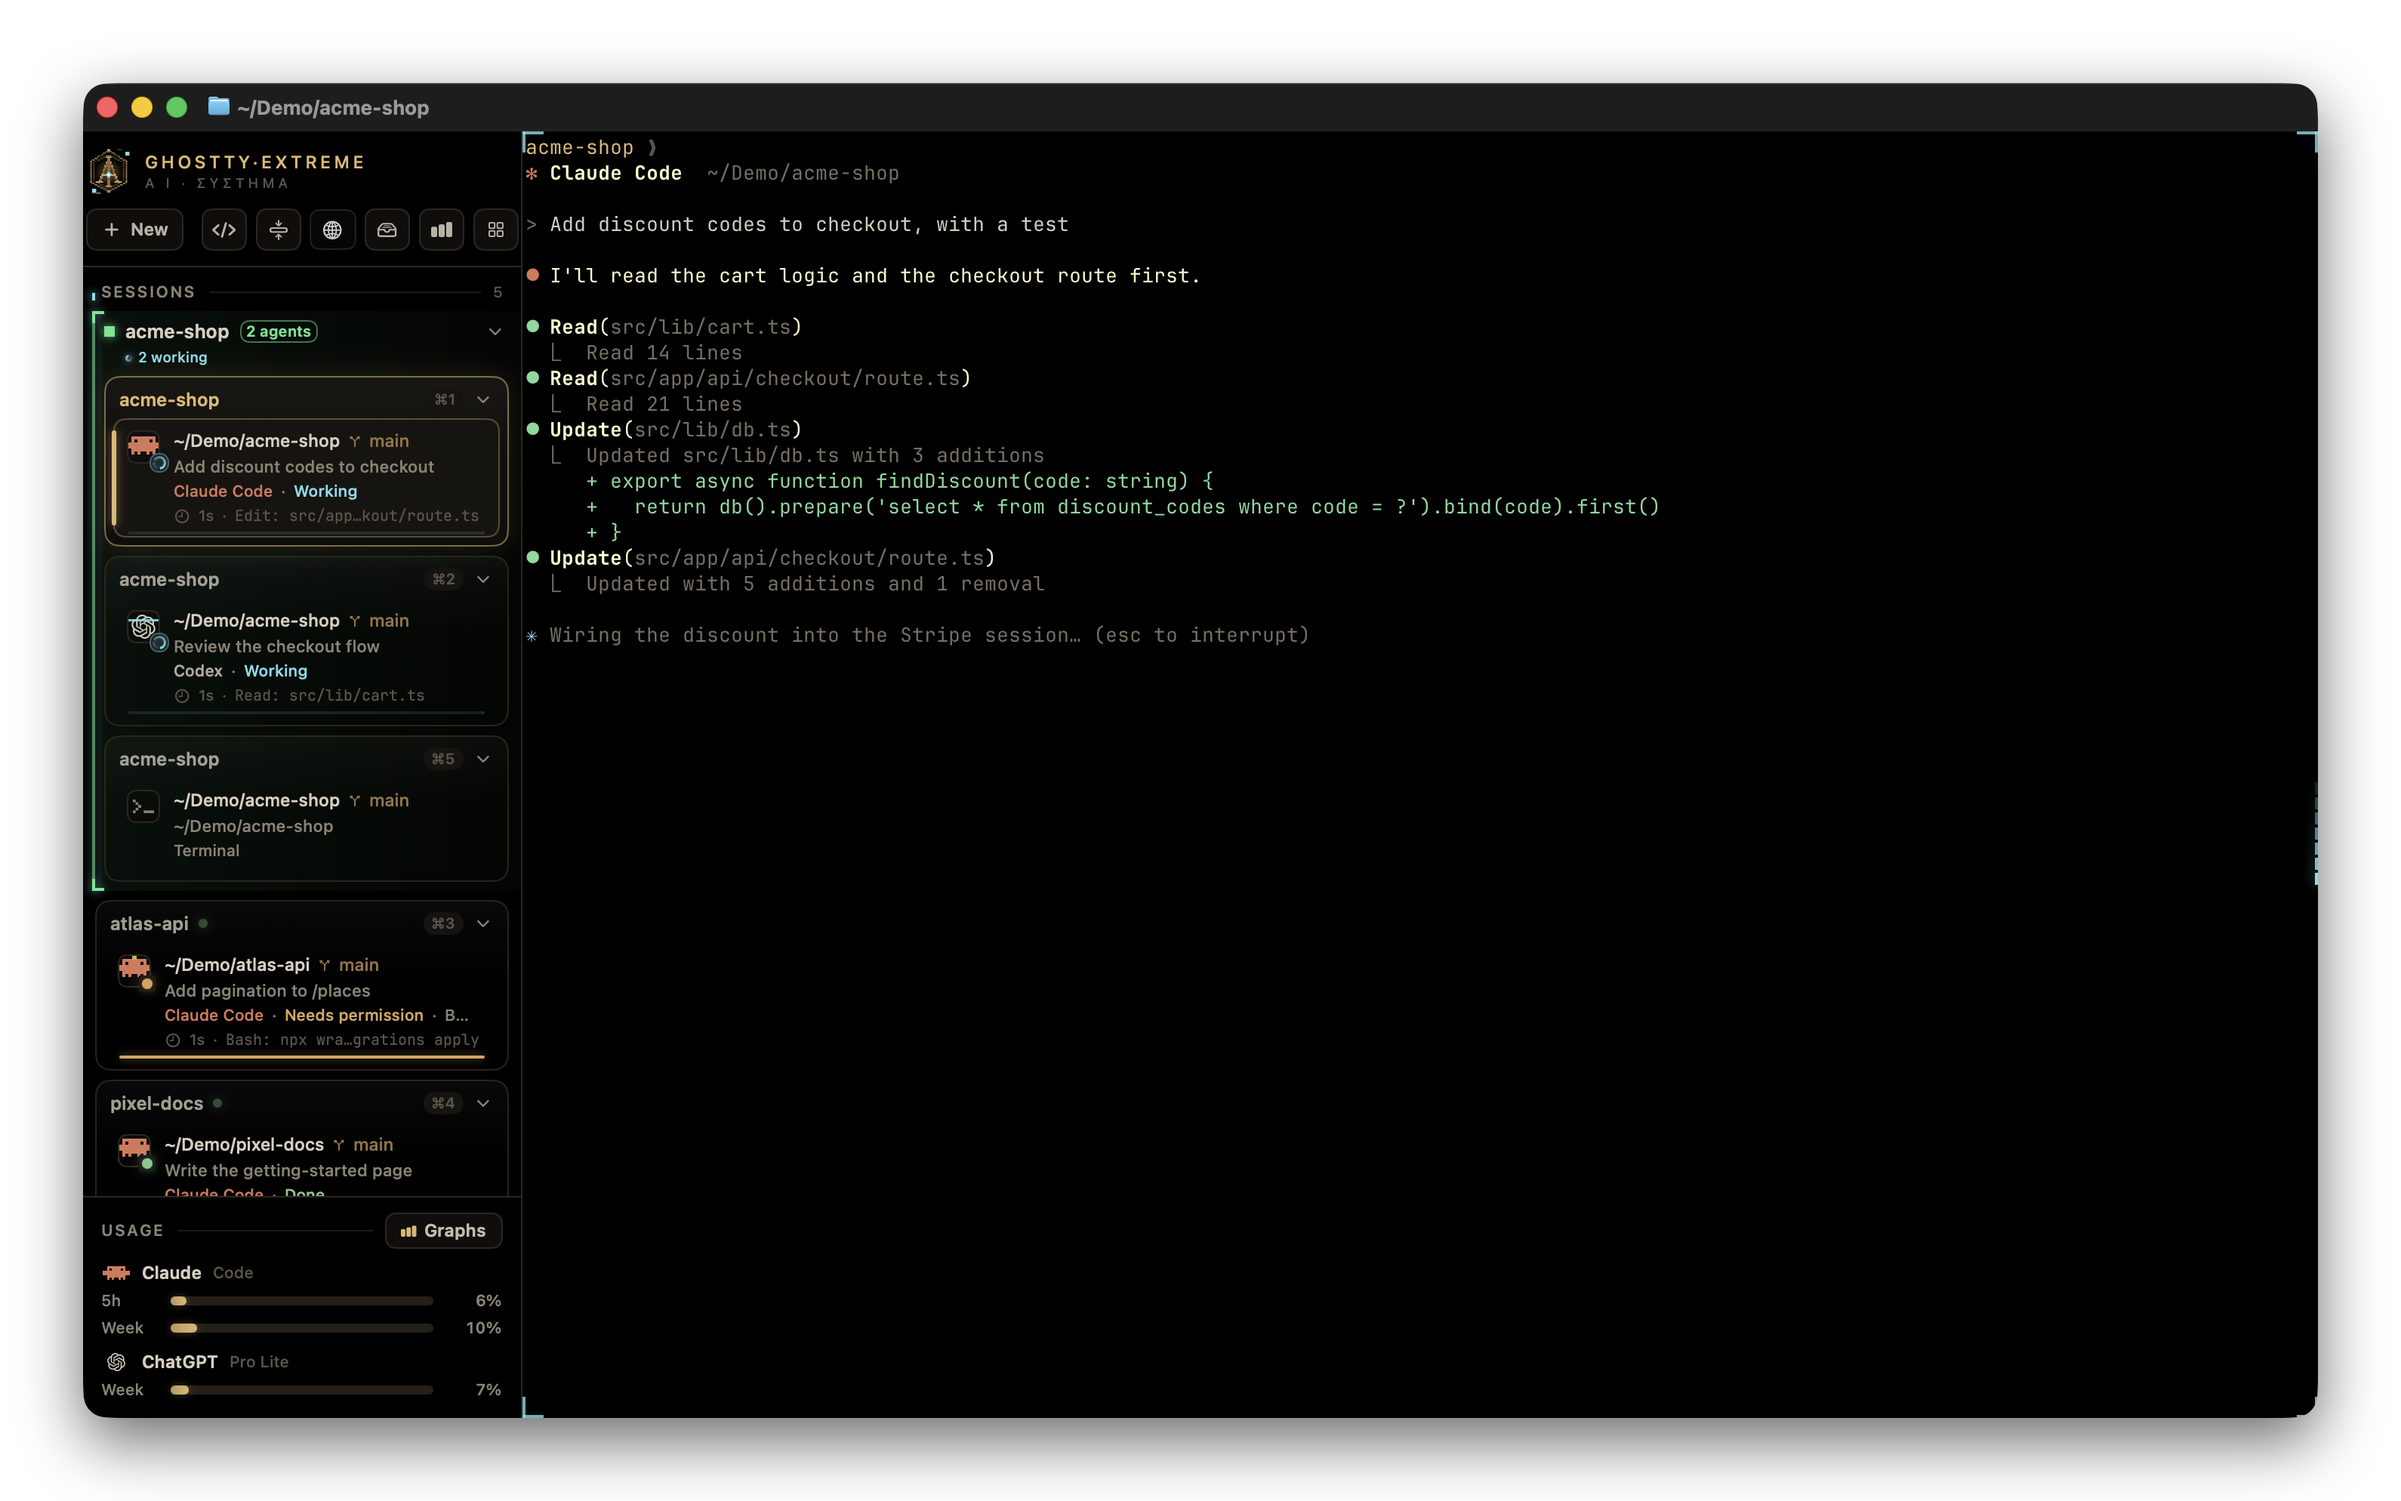
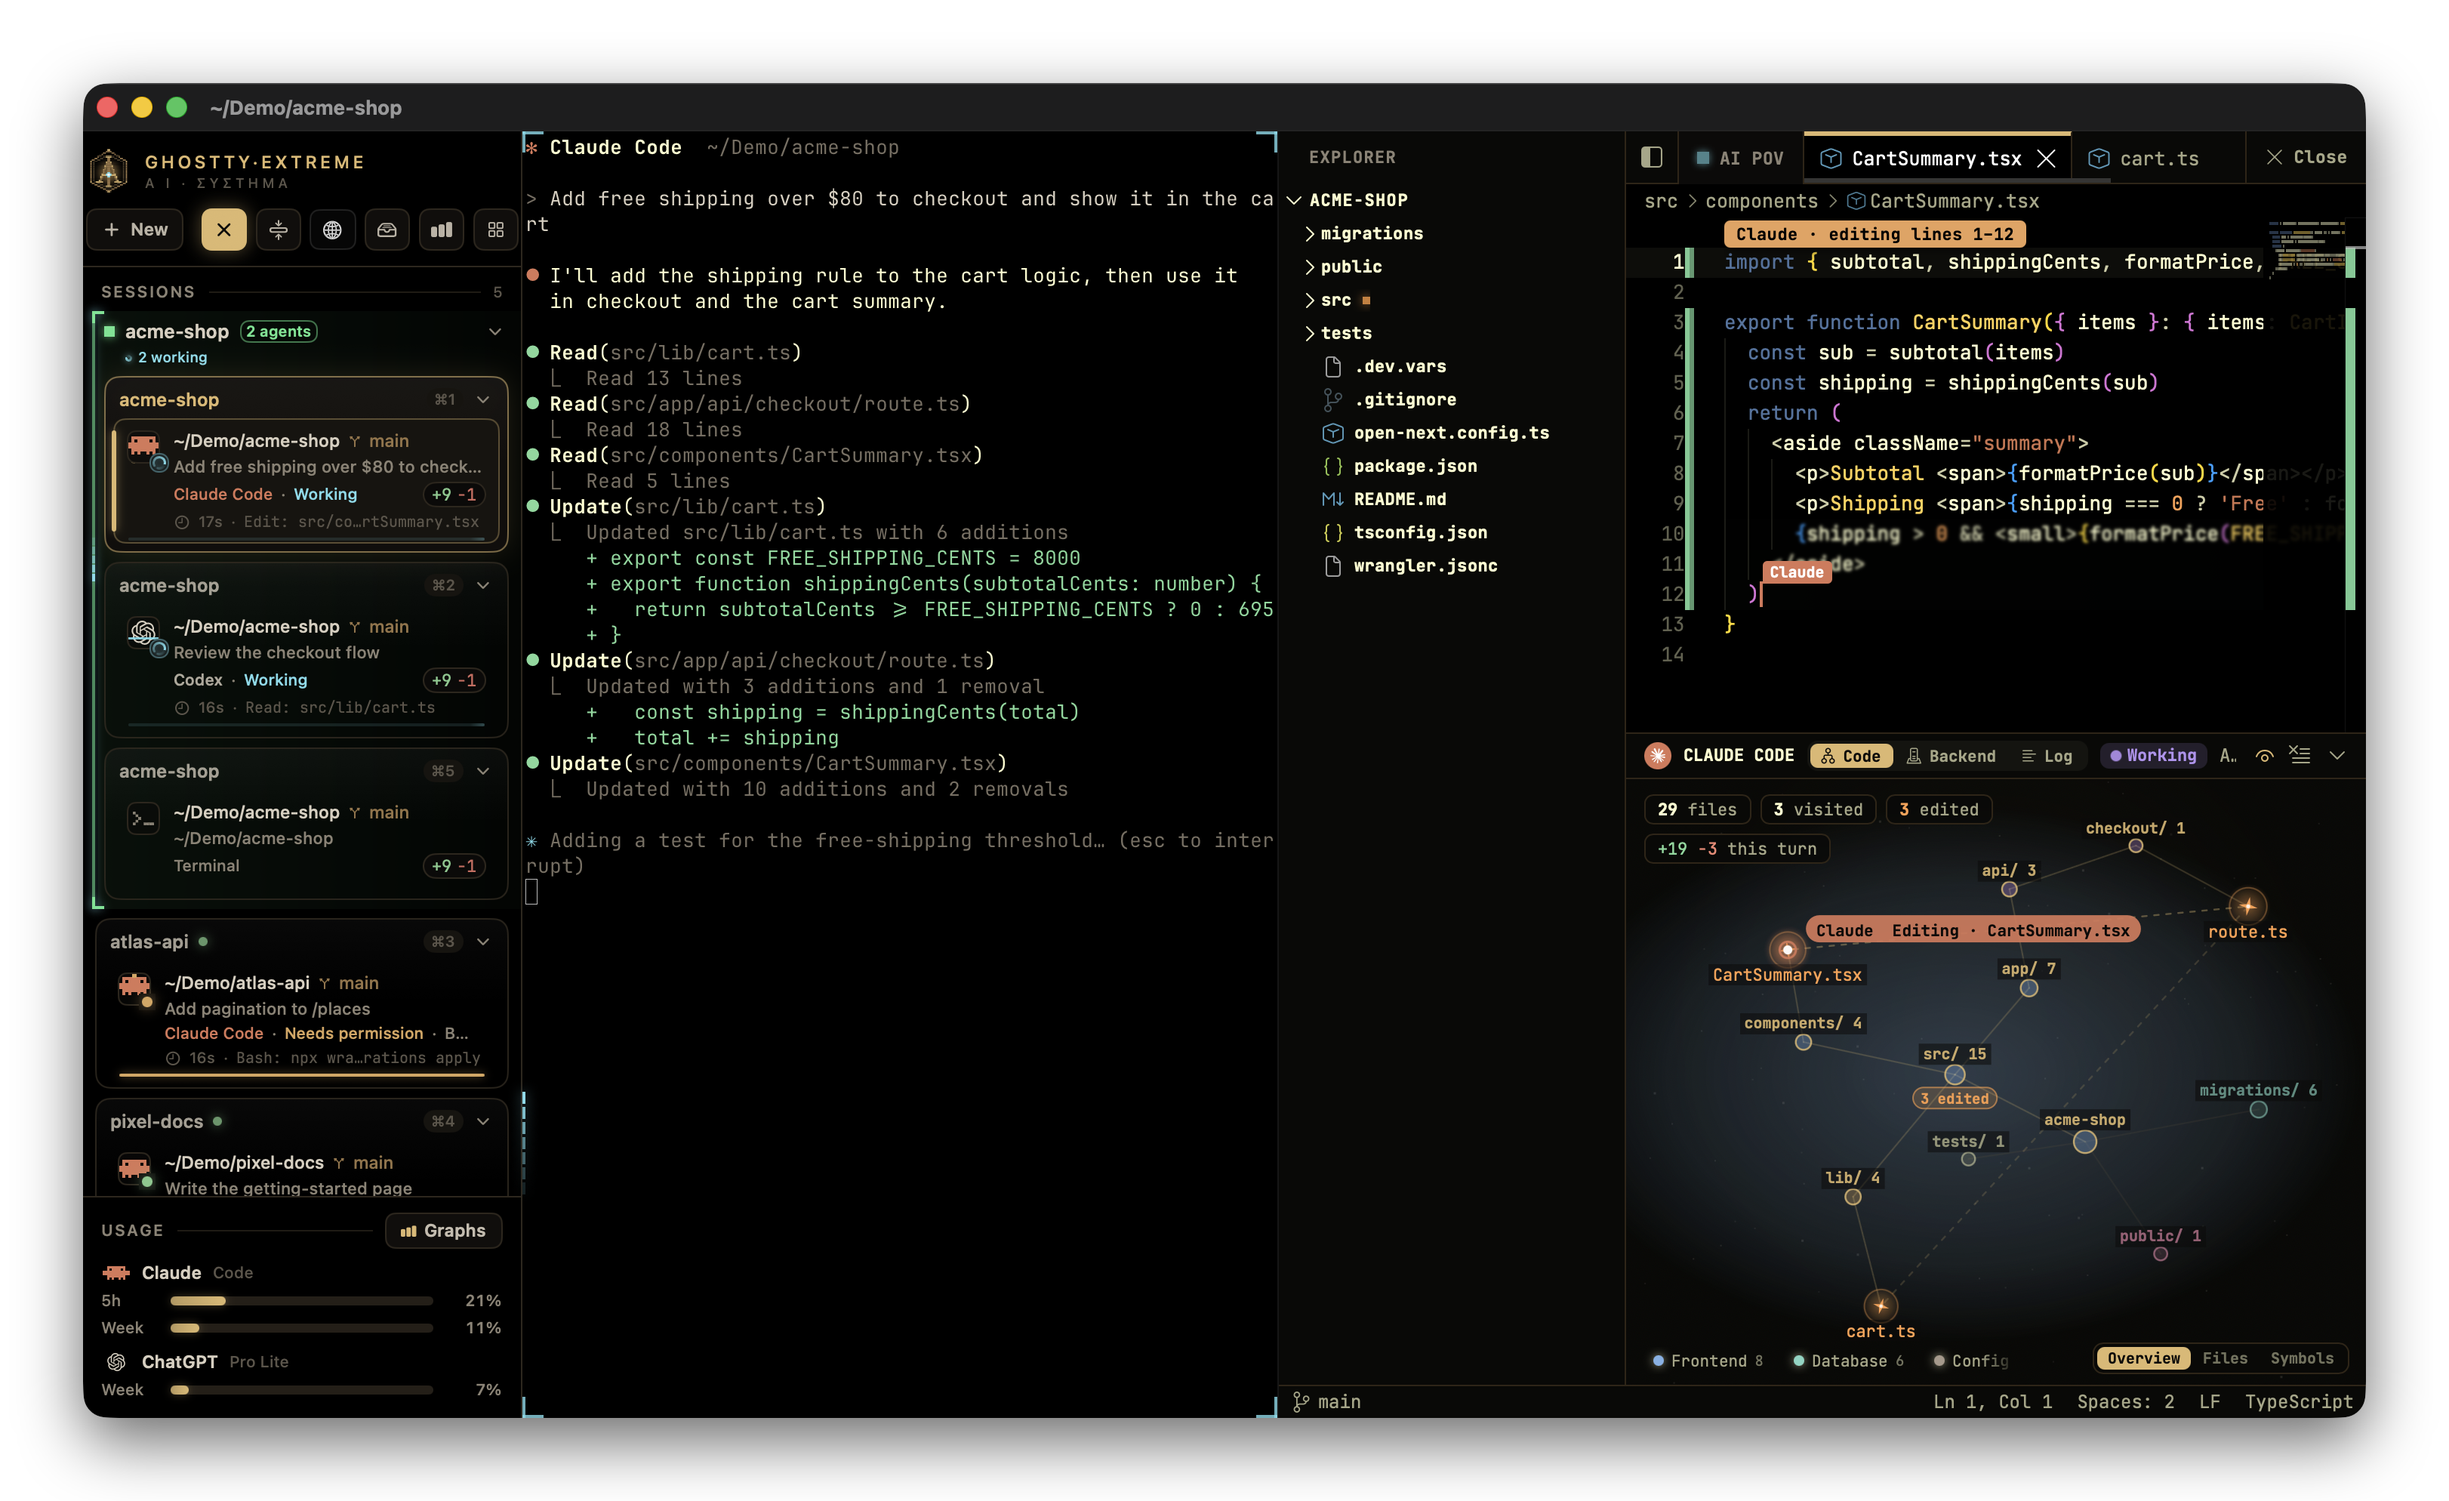
README: a live agent with the editor and code map up front; what you see as an agent works

diff --git a/README.md b/README.md
@@ -12,6 +12,7 @@
 
 <p align="center">
   <b><a href="https://github.com/steventsvik/GhosttyEXTREME/releases/latest">Download</a></b> ·
+  <a href="#watch-your-agents-work-live">Live agents</a> ·
   <a href="#features">Features</a> ·
   <a href="#install">Install</a> ·
   <a href="#keyboard-shortcuts">Shortcuts</a> ·
@@ -19,20 +20,43 @@
 </p>
 
 <p align="center">
-  <img src="images/readme/main-window.png" alt="GhosttyEXTREME's main window: the agent sidebar with Claude Code and Codex working, one waiting for permission, and Claude's live output" width="100%">
+  <img src="images/readme/main-window.png" alt="GhosttyEXTREME with a live Claude Code agent: the agent sidebar, the terminal, the code editor typing in the agent's edit, and the code map tracing its path" width="100%">
 </p>
 
+<p align="center"><sub>One window, one live agent: the sidebar, the agent in the terminal, the editor typing in its
+edit as it happens, and the code map tracing every file it has read and changed.</sub></p>
+
 **GhosttyEXTREME** is [Ghostty](https://ghostty.org), the fast native macOS terminal, rebuilt
-for working with coding agents like **Claude Code** and **Codex**. Every agent shows up
-live in a vertical sidebar. A code editor follows what it reads and changes, a map shows
-where it's been in your project, and a backend view shows what your app runs on. When it
-finishes, its changes wait for you in a review inbox.
+for working with AI coding agents like **Claude Code** and **Codex**. You see every agent
+work, live: what it's doing in each tab, the code it's writing as it writes it, where it is
+in your project and what part of your backend it touches. When it finishes, its changes wait
+for you in a review inbox.
 
 Everything Ghostty does still works. This fork tracks official Ghostty releases and adds
 its features on top.
 
 > [!NOTE]
 > Unofficial fork. Not affiliated with or endorsed by the Ghostty project.
+
+<br>
+
+## Watch your agents work, live
+
+Run Claude Code, Codex, Gemini CLI or another agent in a tab, the way you already do.
+GhosttyEXTREME follows each one as it works, with nothing to set up beyond its hooks.
+
+| As the agent… | …you see |
+|---|---|
+| **starts a task** | Its card in the sidebar shows the task, a working spinner and a timer. Its sprite starts typing and the terminal's frame lights up cyan. |
+| **reads a file** | The editor opens that file at the lines it read; the file lights up cyan on the code map, and a comet flies there. |
+| **edits a file** | The change types itself into the editor with the lines highlighted, the file turns orange on the map, and the turn's diff count goes up. |
+| **thinks or replies** | The agent panel shows its thinking, messages and every tool call as a timeline, sub-agents included. |
+| **touches your backend** | The Worker, database or bucket that code belongs to lights up in the Backend view. |
+| **needs you** | Its card turns amber and jumps to the top of the command palette and Mission Control; you get a notification and a Dock badge. |
+| **finishes** | Its sprite sparkles, the sigil flares gold, and its changes land in Review with the full diff. |
+
+Several agents at once? Each tab follows its own, tabs in the same repository are grouped,
+and you're warned when two agents edit the same file.
 
 <br>
 
